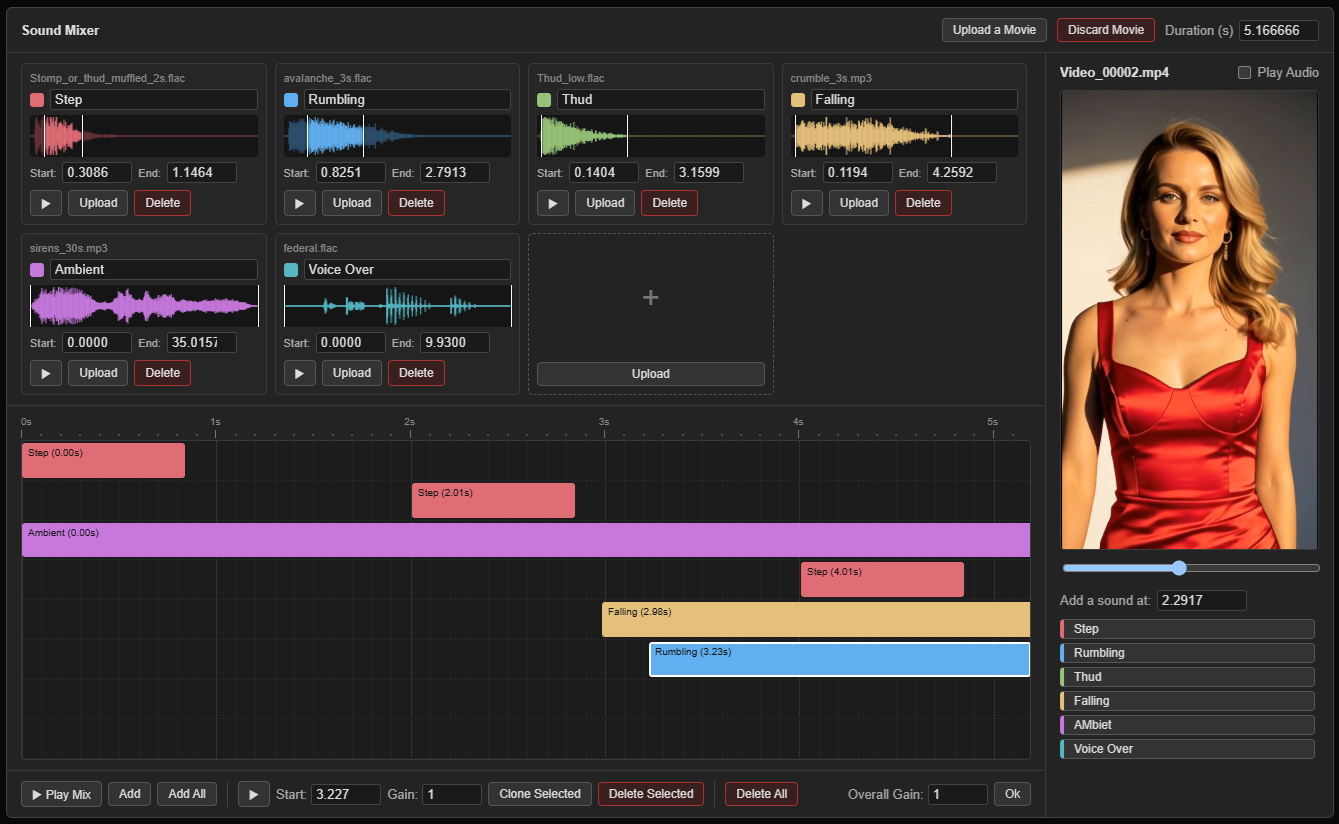
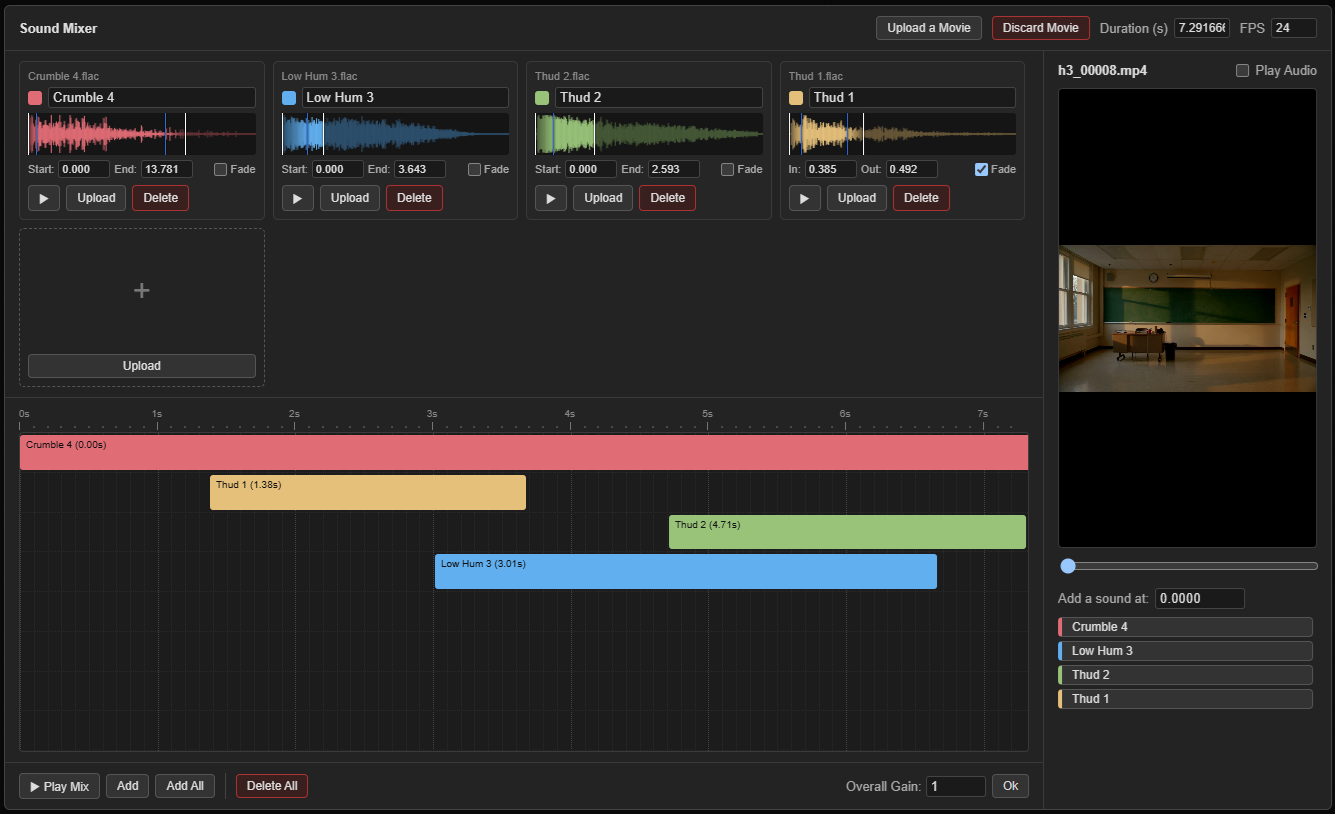
Document the Sound Mixer's fades, play/stop, and movie FPS override
Folds fades and the play-anything/stop-with-the-same-button behaviour
into the editor overview, and adds a short paragraph for the movie: that
it stays with the workflow, and that the FPS box re-rates it and carries
every placement along with the frame it was set against. Screenshot
refreshed to show the FPS box.

diff --git a/README.md b/README.md
@@ -280,7 +280,9 @@ The **prompt editor for stacks** is the same full-screen editor used by the Work
 
 Mixes multiple audio files into one `AUDIO` output. Click **Edit Mix** to open the mix editor.
 
-In general, the editor lets you: set the overall mix **duration**; add up to 16 **sources** (uploaded audio files), each with its own **trim** (start/end crop) and waveform; **place** a source on the timeline any number of times, freely repositioning each placement with a slider and adjusting its own **gain**; **play the mix** at any point while editing; and optionally **load a video**, scrub through its exact frames, and add sources at a time picked straight from the video — with the video and audio mix **playable together in real time**.
+In general, the editor lets you: set the overall mix **duration**; add up to 16 **sources** (uploaded audio files), each with its own **trim** (start/end crop) and **fade in/out**, both dragged as sliders over the waveform — a **Fade** checkbox switches which pair the sliders set; **place** a source on the timeline any number of times, freely repositioning each placement with a slider and adjusting its own **gain**; **play** the whole mix, a single source, or one placement at any point while editing, stopping it again with the same button; and optionally **load a video**, scrub through its exact frames, and add sources at a time picked straight from the video — with the video and audio mix **playable together in real time**.
+
+The video is remembered with the workflow, so it's still loaded next time you open the editor. An **FPS** box beside Duration re-rates it: the movie plays back as if it ran at that frame rate, and every placement moves with the frame it was set against — a sound on frame 32 of a 32 fps movie sits at 1s and moves to 2s once the movie is called 16 fps. The value shows red while it differs from the file's own rate, and **Esc** in the box restores it. Whenever the movie's length and the mix duration disagree, the editor offers to match them.
 
 ![Sample Sound Mixer](content/sample_audio.png)
 
